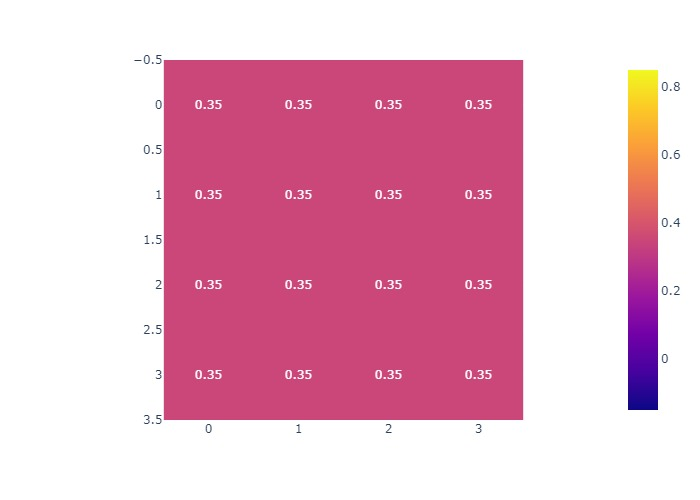
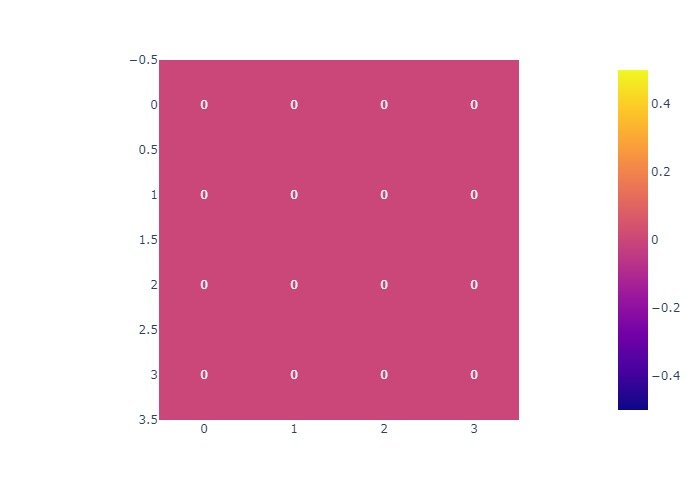
option to select model

diff --git a/mainSript.py b/mainSript.py
@@ -3,52 +3,68 @@ from dataPoint import dataPoint
 import numpy
 import csv
 import math
-import plotly.express as px #plotlu requires pandas
-# pip install -U kaleido
+import plotly.express as px
+import sys
+import pickle
+
+def getModel(var):
+	if var == '1':
+		model = neuralNetwork(input_nodes, hidden_nodes, output_nodes, learning_rate)
+		model.who = numpy.loadtxt("models/who.txt").reshape(output_nodes, hidden_nodes)
+		model.wih = numpy.loadtxt("models/wih.txt").reshape(hidden_nodes, input_nodes)
+	elif var == '2':
+		model = pickle.load(open("models/pima.pickle.dat", "rb"))
+	else:
+		print("usage: python mainScript.py <option(1=neural network/ 2=gradient boosting classifier)>")
+		exit()
+	return model
 
 def main():
-	distance = 5 #distance between nodes
-	input_nodes = 3
-	hidden_nodes = 25
-	output_nodes = 2
-	learning_rate = 0.05
+	if len(sys.argv) != 2:
+		print("usage: python mainScript.py <option(1=neural network/ 2=gradient boosting classifier)>")
+		exit()
+	else:
+		distance = 5 #distance between nodes
+		input_nodes = 3
+		hidden_nodes = 25
+		output_nodes = 2
+		learning_rate = 0.05
 
-	model = neuralNetwork(input_nodes, hidden_nodes, output_nodes, learning_rate)
-	model.who = numpy.loadtxt("models/who.txt").reshape(output_nodes, hidden_nodes)
-	model.wih = numpy.loadtxt("models/wih.txt").reshape(hidden_nodes, input_nodes)
+		model=getModel(sys.argv[1])
 
-	lst = []
-	with open('data.csv', newline='') as csvfile:
-		spamreader = csv.reader(csvfile, delimiter=',', quotechar='|')
-		for row in spamreader:
-			if row != "X,Y,PH,TDS,TURBIDITY".split(','):
-				lst.append(list(map(float, row)))
+		lst = []
+		with open('data.csv', newline='') as csvfile:
+			spamreader = csv.reader(csvfile, delimiter=',', quotechar='|')
+			for row in spamreader:
+				if row != "X,Y,PH,TDS,TURBIDITY".split(','):
+					lst.append(list(map(float, row)))
 
-	newLst = []
-	for i in lst:
-	  a = dataPoint(i[0], i[1], i[2], i[3], i[4])
-	  newLst.append(a)
-
-
-	x = [i.loc[0] for i in newLst]
-	y = [i.loc[1] for i in newLst]
-
-	width = math.ceil((max(x) - min(x))/5) + 1
-	height = math.ceil((max(y) - min(y))/5) + 1
-
-	grid = [[None for w in range(width)] for h in range(height)]
-
-	for data in newLst:
-	  loc = (data.loc)/5
-	  grid[int(loc[0])][int(loc[1])] = data
-	predictedGrid = [[round(model.query(i.values)[1][0], 2) for i in j] for j in grid]
-	# predictedGrid = [[model.predict(numpy.asarray(i.values).reshape(1, -1)).tolist()[0] for i in j] for j in grid]
+		newLst = []
+		for i in lst:
+		  a = dataPoint(i[0], i[1], i[2], i[3], i[4])
+		  newLst.append(a)
 
 
-	fig = px.imshow(predictedGrid, text_auto=True)
-	fig.write_image("image.jpeg")
+		x = [i.loc[0] for i in newLst]
+		y = [i.loc[1] for i in newLst]
+
+		width = math.ceil((max(x) - min(x))/5) + 1
+		height = math.ceil((max(y) - min(y))/5) + 1
+
+		grid = [[None for w in range(width)] for h in range(height)]
+
+		for data in newLst:
+		  loc = (data.loc)/5
+		  grid[int(loc[0])][int(loc[1])] = data
+
+		if sys.argv[1] == '1':
+			predictedGrid = [[round(model.query(i.values)[1][0], 2) for i in j] for j in grid]
+		elif sys.argv[1] == '2':
+			predictedGrid = [[model.predict(numpy.asarray(i.values).reshape(1, -1)).tolist()[0] for i in j] for j in grid]
+
+		fig = px.imshow(predictedGrid, text_auto=True)
+		fig.write_image("image.jpeg")
 
 
 if __name__ == '__main__':
 	main()
-	print("done")
